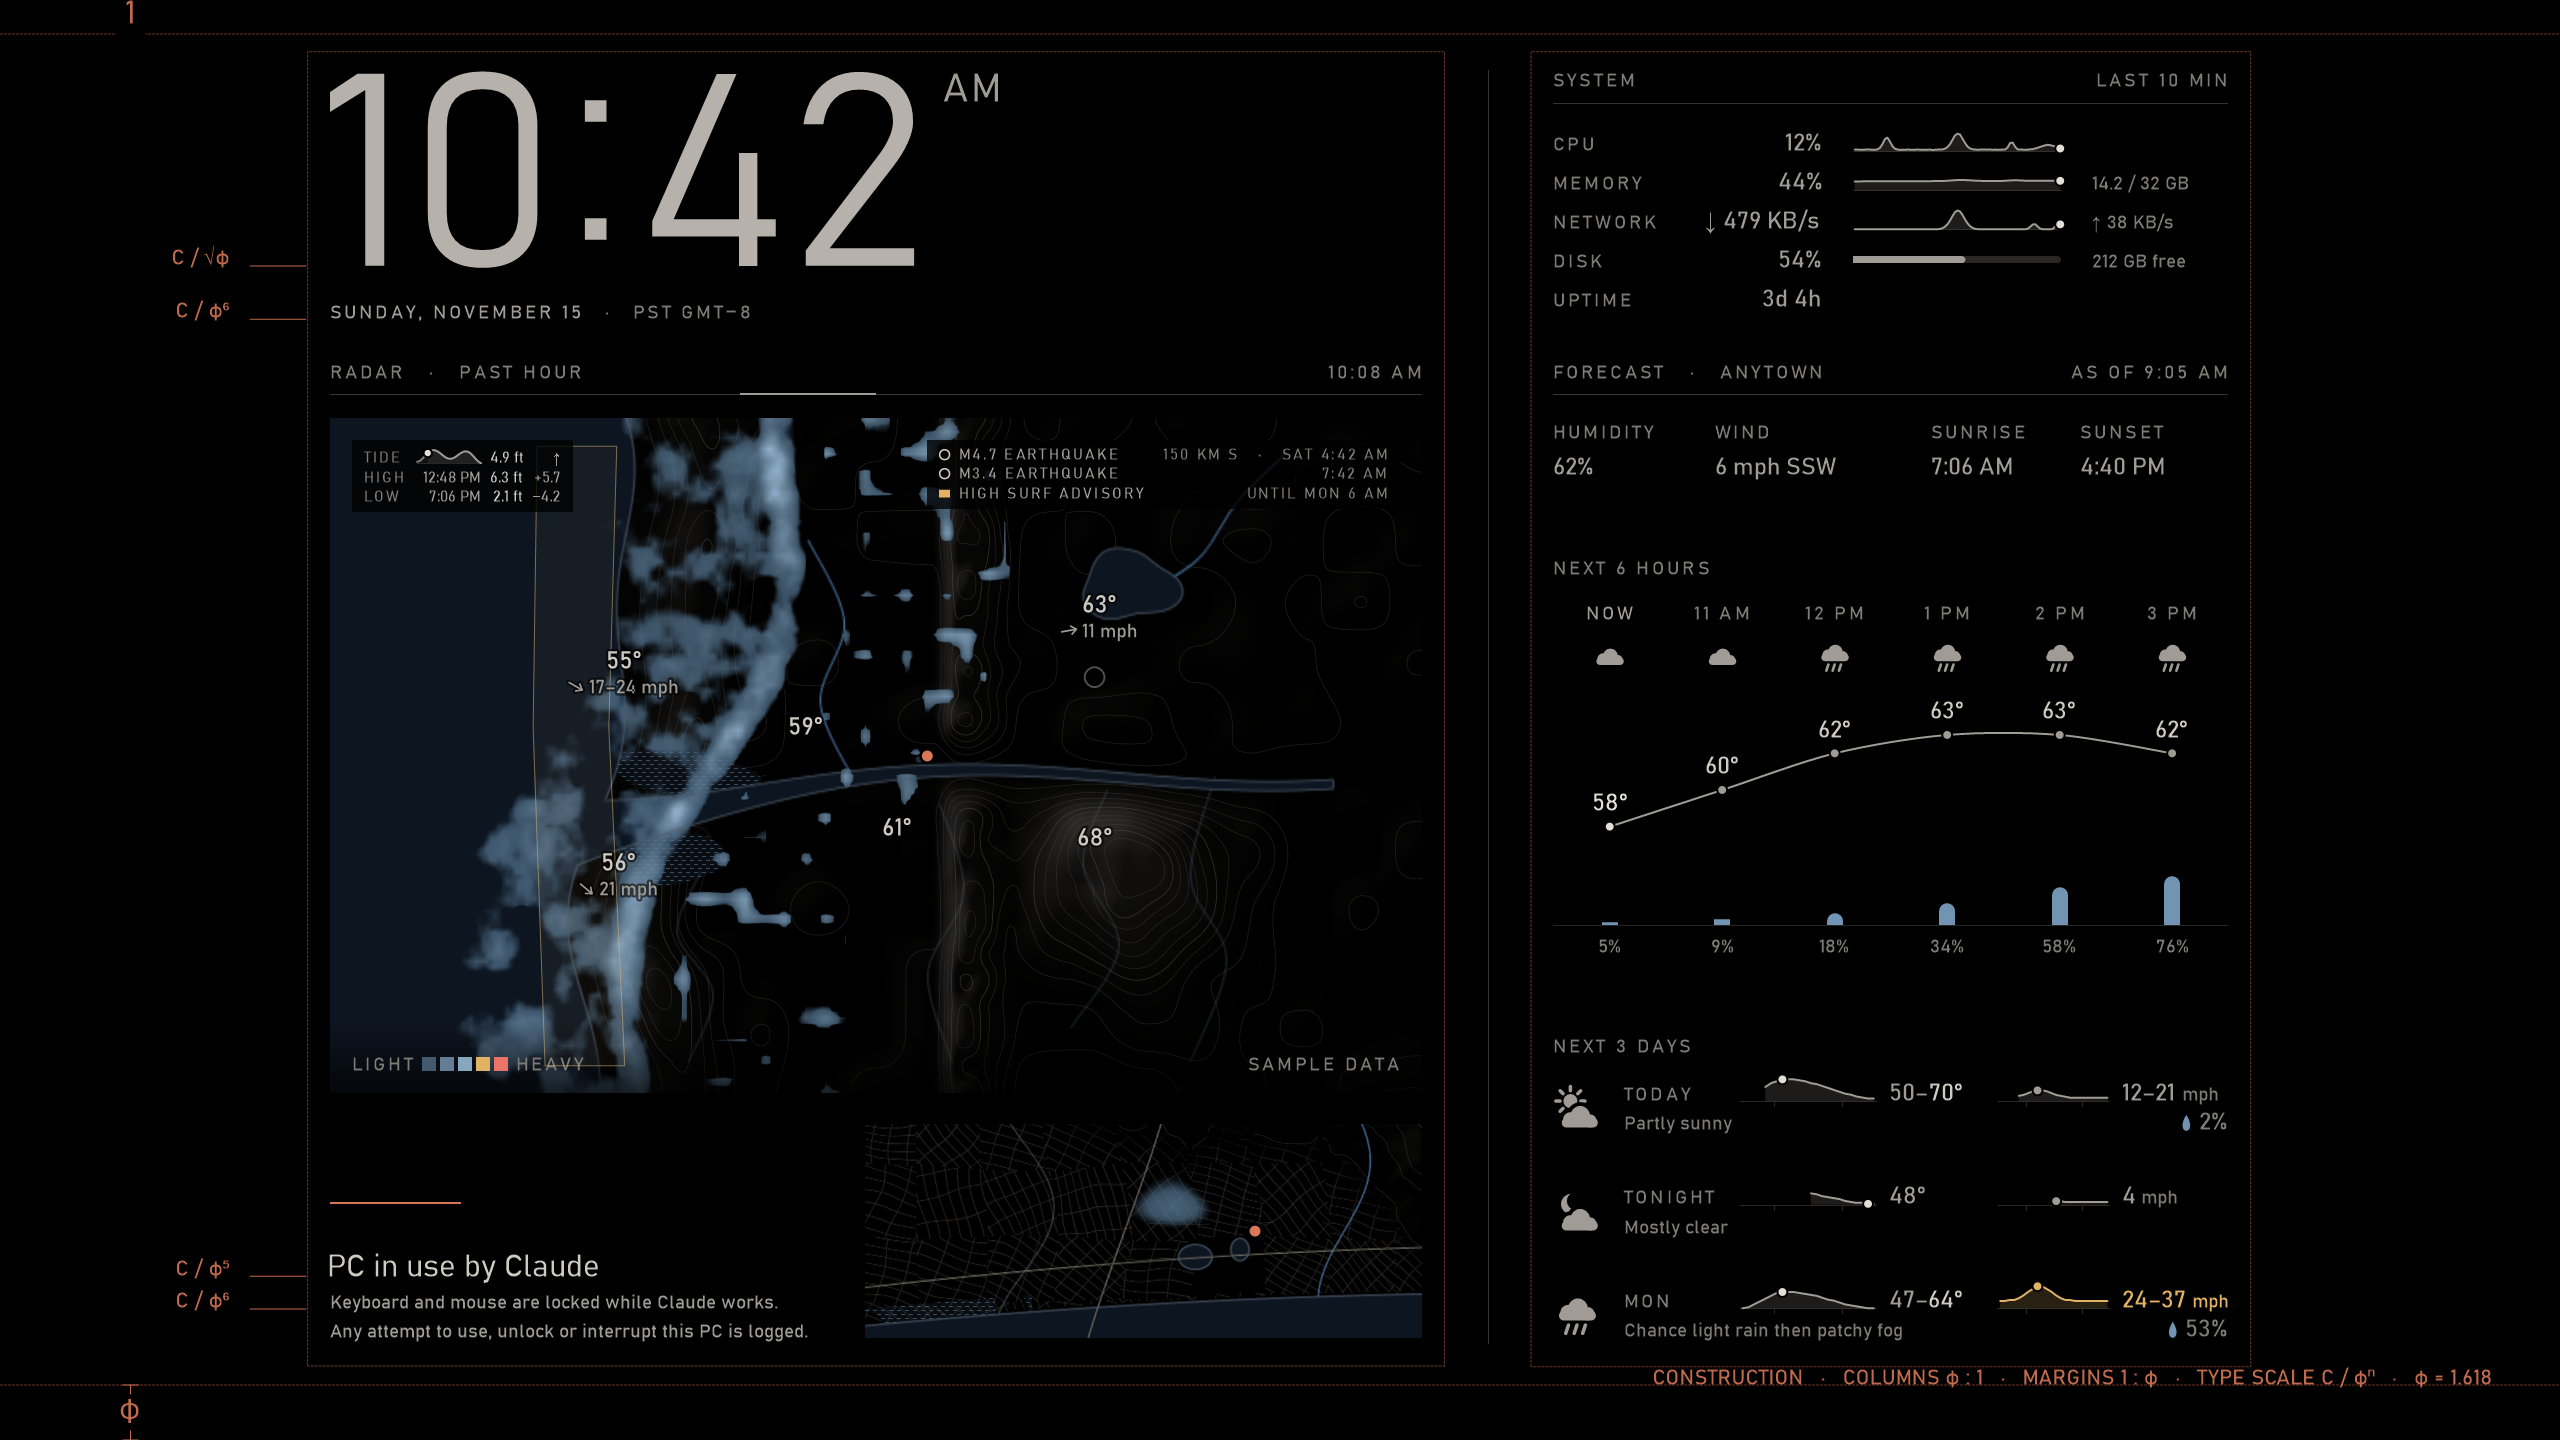
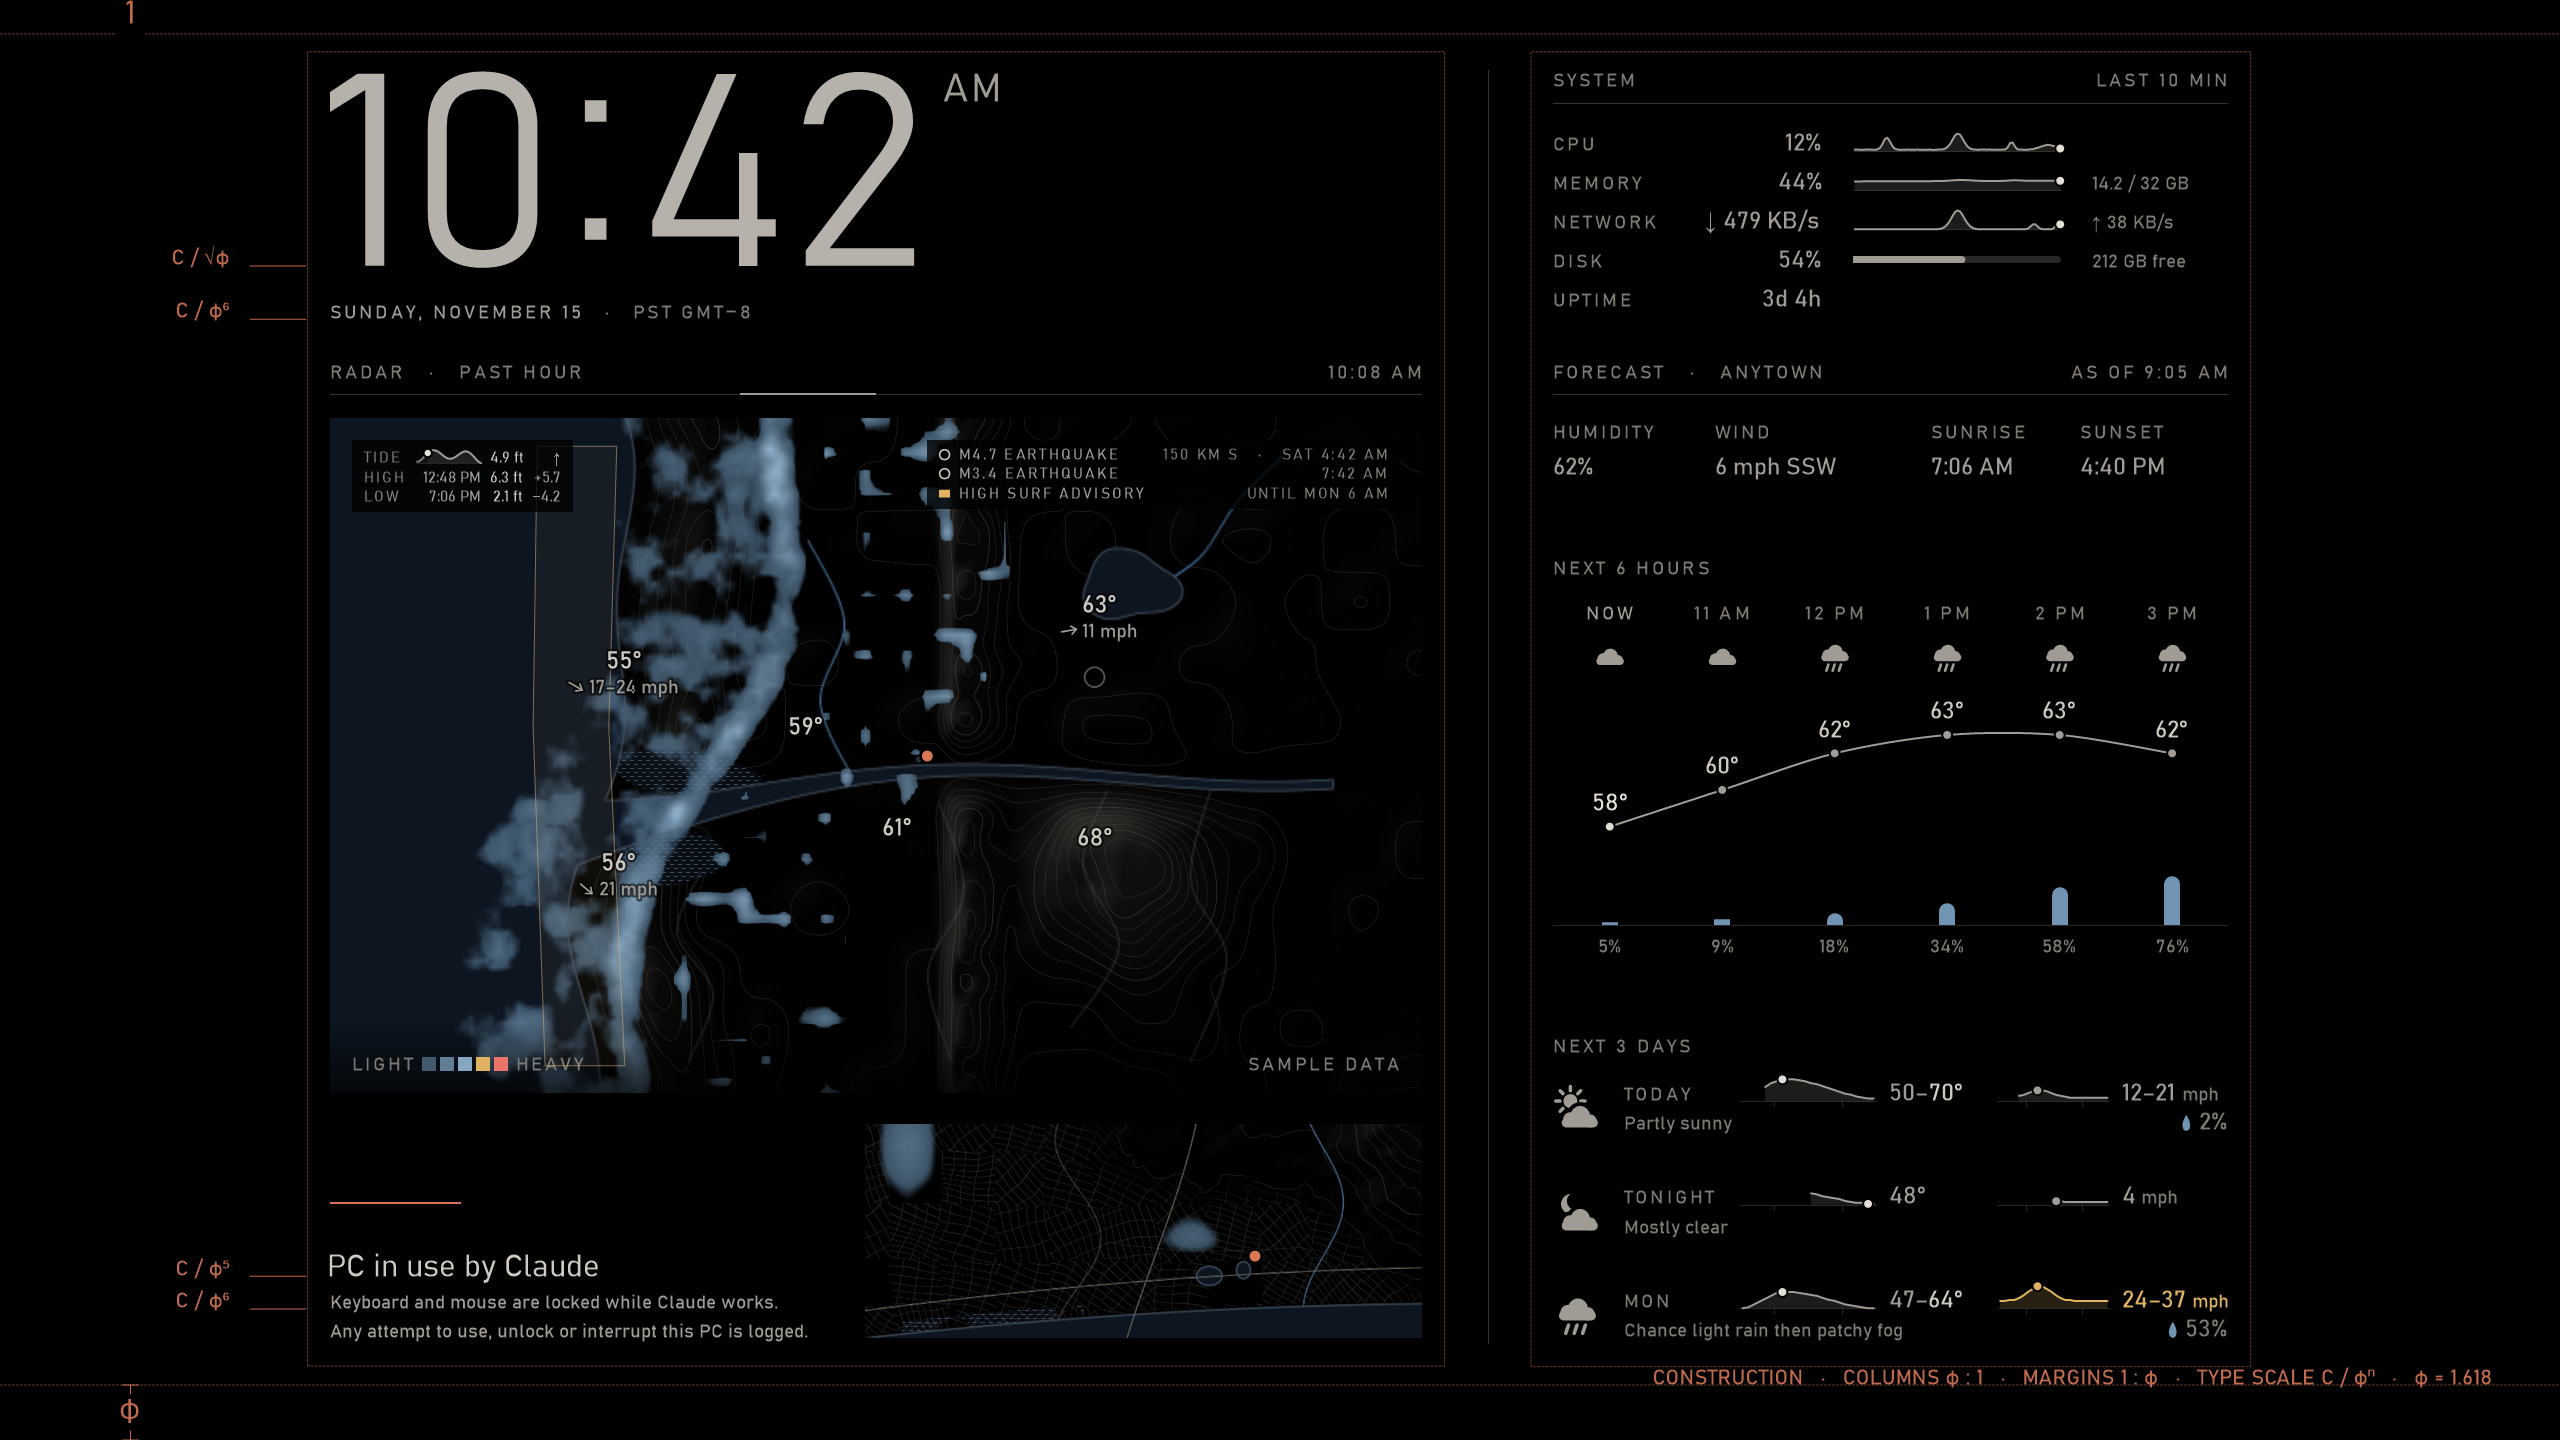
Curtain close-up: 7.5 km tall, the extra all to the north
The close-up now shows 7.5 km instead of 5.75. Its south edge stays
2.875 km south of home (DetailSouthKm), and the rest lies north. Home
stays 7/10 of the way across. The downloaded ground already covers it.

Changed region(s): [[0.3438, 0.8125, 0.5625, 0.9375], [0.3438, 0.7812, 0.375, 0.8438]]

diff --git a/src/WeatherMap.cs b/src/WeatherMap.cs
@@ -160,9 +160,11 @@ namespace ClaudeCurtain
         public byte[] Roads = new byte[0];        // the bigger roads (close-up only), 0 ... 255 by size, on the base grid
         public byte[] Streets = new byte[0];      // local streets, 0 ... 255, the same way
         // the close-up's height: 11.5 km at first ("too zoomed out, I'd want at least 2x or more"), then 4.6 ("might be
-        // a little too zoomed in now, don't back too far out just a bit"), then 5.5, now exactly twice as close as the
-        // first: the user's own estimate of 2x was right
-        public const double DetailViewKm = 5.75;
+        // a little too zoomed in now, don't back too far out just a bit"), 5.5, and 5.75 (twice as close as the first,
+        // the user's own estimate); now 7.5, its south edge where 5.75 put it and the rest to the north (the user: more
+        // of the town to the north, "keep the lower bound the same")
+        public const double DetailViewKm = 7.5;
+        public const double DetailSouthKm = 2.875;  // how far the close-up reaches south of home; the rest of it lies north
         public const double DetailWestShare = 0.7; // home 7/10 of the way across: the larger part of the view west
 
         public const double StationStaleHours = 2;   // older station reports are never shown
@@ -1050,7 +1052,8 @@ namespace ClaudeCurtain
 
         /// <summary>
         /// The part of the close-up's box a w x h close-up shows: DetailViewKm tall (less if the box is too small
-        /// for the shape), home 7/10 of the way across and halfway down; slid inward near the box's edge.
+        /// for the shape), home 7/10 of the way across, its south edge DetailSouthKm south of home (at most half
+        /// the height) and the rest north; slid inward near the box's edge.
         /// </summary>
         internal static GeoBox DetailCrop(GeoBox box, double lat, double lon, int w, int h)
         {
@@ -1064,7 +1067,8 @@ namespace ClaudeCurtain
             double dLat = hk / KmPerDegree, dLon = wk / kmLon;
             double cLat = double.IsNaN(lat) ? midLat : lat, cLon = double.IsNaN(lon) ? (box.West + box.East) / 2 : lon;
             double westShare = double.IsNaN(lon) ? 0.5 : DetailWestShare;
-            double s = Math.Max(box.South, Math.Min(box.North - dLat, cLat - dLat / 2));
+            double south = double.IsNaN(lat) ? dLat / 2 : Math.Min(dLat / 2, DetailSouthKm / KmPerDegree);
+            double s = Math.Max(box.South, Math.Min(box.North - dLat, cLat - south));
             double we = Math.Max(box.West, Math.Min(box.East - dLon, cLon - dLon * westShare));
             return new GeoBox(s, we, s + dLat, we + dLon);
         }

diff --git a/src/SelfTest.cs b/src/SelfTest.cs
@@ -1026,9 +1026,10 @@ namespace ClaudeCurtain
                 double across = (-122.0 - dc.West) / (dc.East - dc.West), down = (dc.North - 45.0) / (dc.North - dc.South);
                 GeoBox edge = WeatherMap.DetailCrop(db, 45.09, -121.86, 560, 190);
                 Check("close-up: " + WeatherMap.DetailViewKm.ToString("0.0#", System.Globalization.CultureInfo.InvariantCulture) +
-                      " km tall at the screen's shape, home 7/10 of the way across (the town to the west) and halfway down; inside its box near the edge",
+                      " km tall at the screen's shape, home 7/10 of the way across (the town to the west), its south edge " +
+                      WeatherMap.DetailSouthKm.ToString("0.0##", System.Globalization.CultureInfo.InvariantCulture) + " km south of home and the rest north; inside its box near the edge",
                       Math.Abs(dc.KmTall - WeatherMap.DetailViewKm) < 0.01 && Math.Abs(dc.KmWide / dc.KmTall - 560 / 190.0) < 0.01 &&
-                      Math.Abs(across - WeatherMap.DetailWestShare) < 1e-6 && Math.Abs(down - 0.5) < 1e-6 &&
+                      Math.Abs(across - WeatherMap.DetailWestShare) < 1e-6 && Math.Abs((45.0 - dc.South) * WeatherMap.KmPerDegree - WeatherMap.DetailSouthKm) < 0.01 &&
                       edge.North <= db.North + 1e-9 && edge.East <= db.East + 1e-9 && edge.South >= db.South - 1e-9 && edge.West >= db.West - 1e-9);
 
                 // Rain in two cells of the big map's picture, where the close-up's own box would put no rain: it

diff --git a/README.md b/README.md
@@ -373,8 +373,9 @@ And in the left column:
   when it ends.
 
   The close-up: on a landscape screen, in the room beside the message under the map, a map of the
-  town around home, 5.75 km tall (about 31 m a pixel), home 7/10 of the way across (change
-  `DetailViewKm` and `DetailWestShare` in `WeatherMap.cs` to frame it differently). It plays the
+  town around home, 7.5 km tall (about 35 m a pixel), reaching 2.9 km south of home and the rest north,
+  home 7/10 of the way across (change `DetailViewKm`, `DetailSouthKm` and `DetailWestShare` in
+  `WeatherMap.cs` to frame it differently). It plays the
   map's own radar or cloud pictures at the same moment of the loop, so the two always agree, the
   radar's 1 km cells softened by a third of a cell where blown up this far so showers come out round.
   Its own ground is fetched once per place: a box of 0.2 x 0.4 degrees around the place rounded to a
